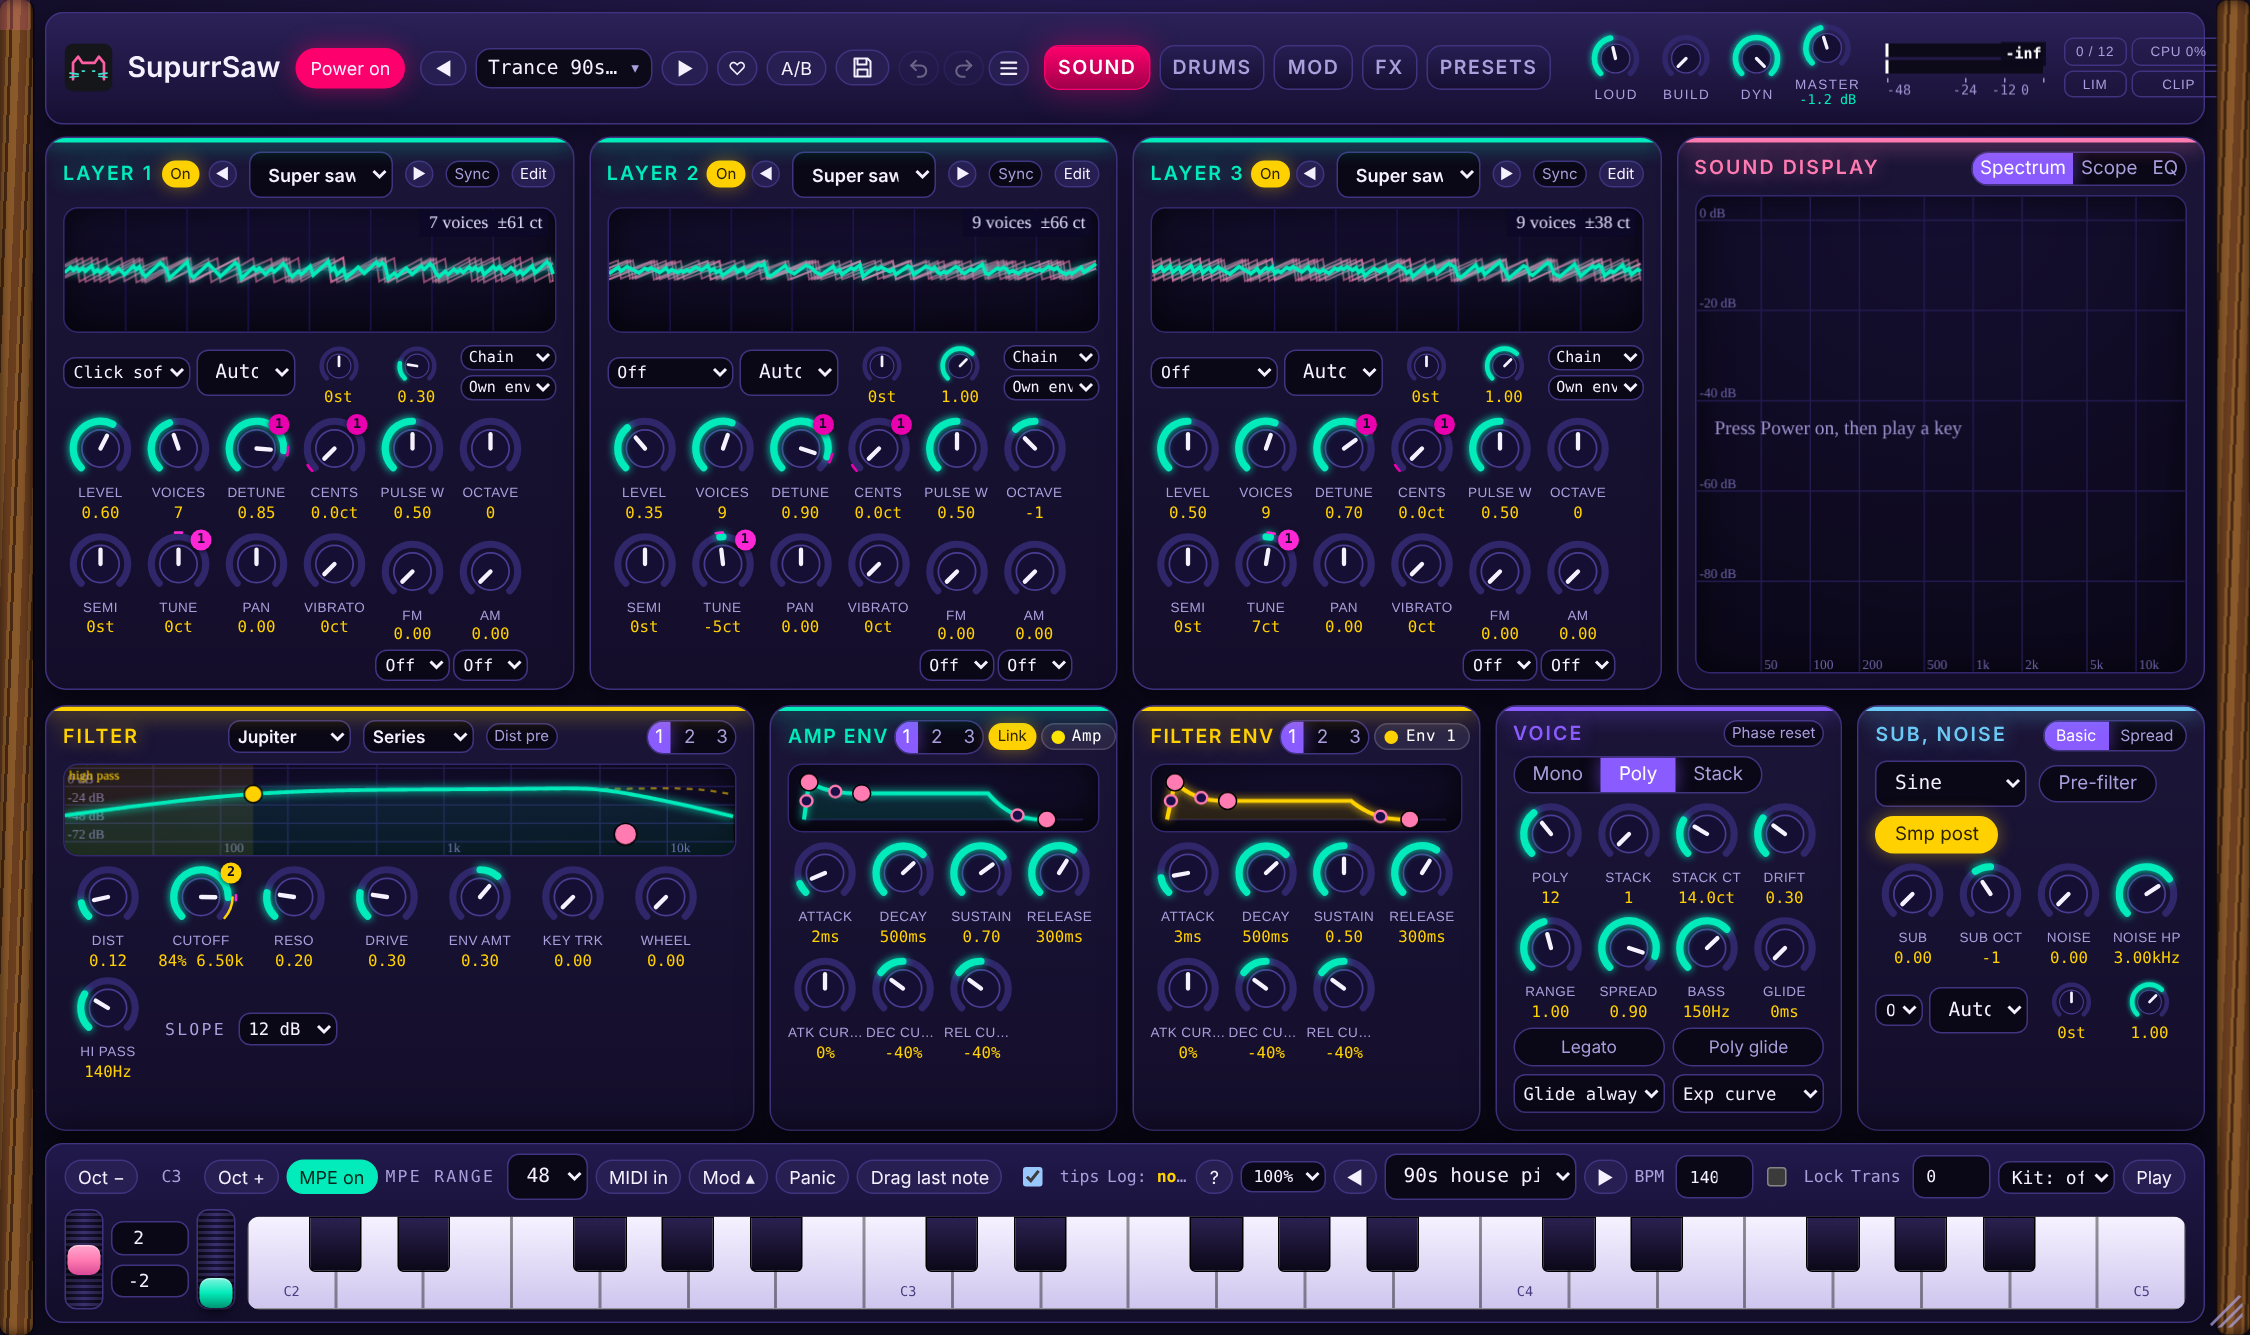
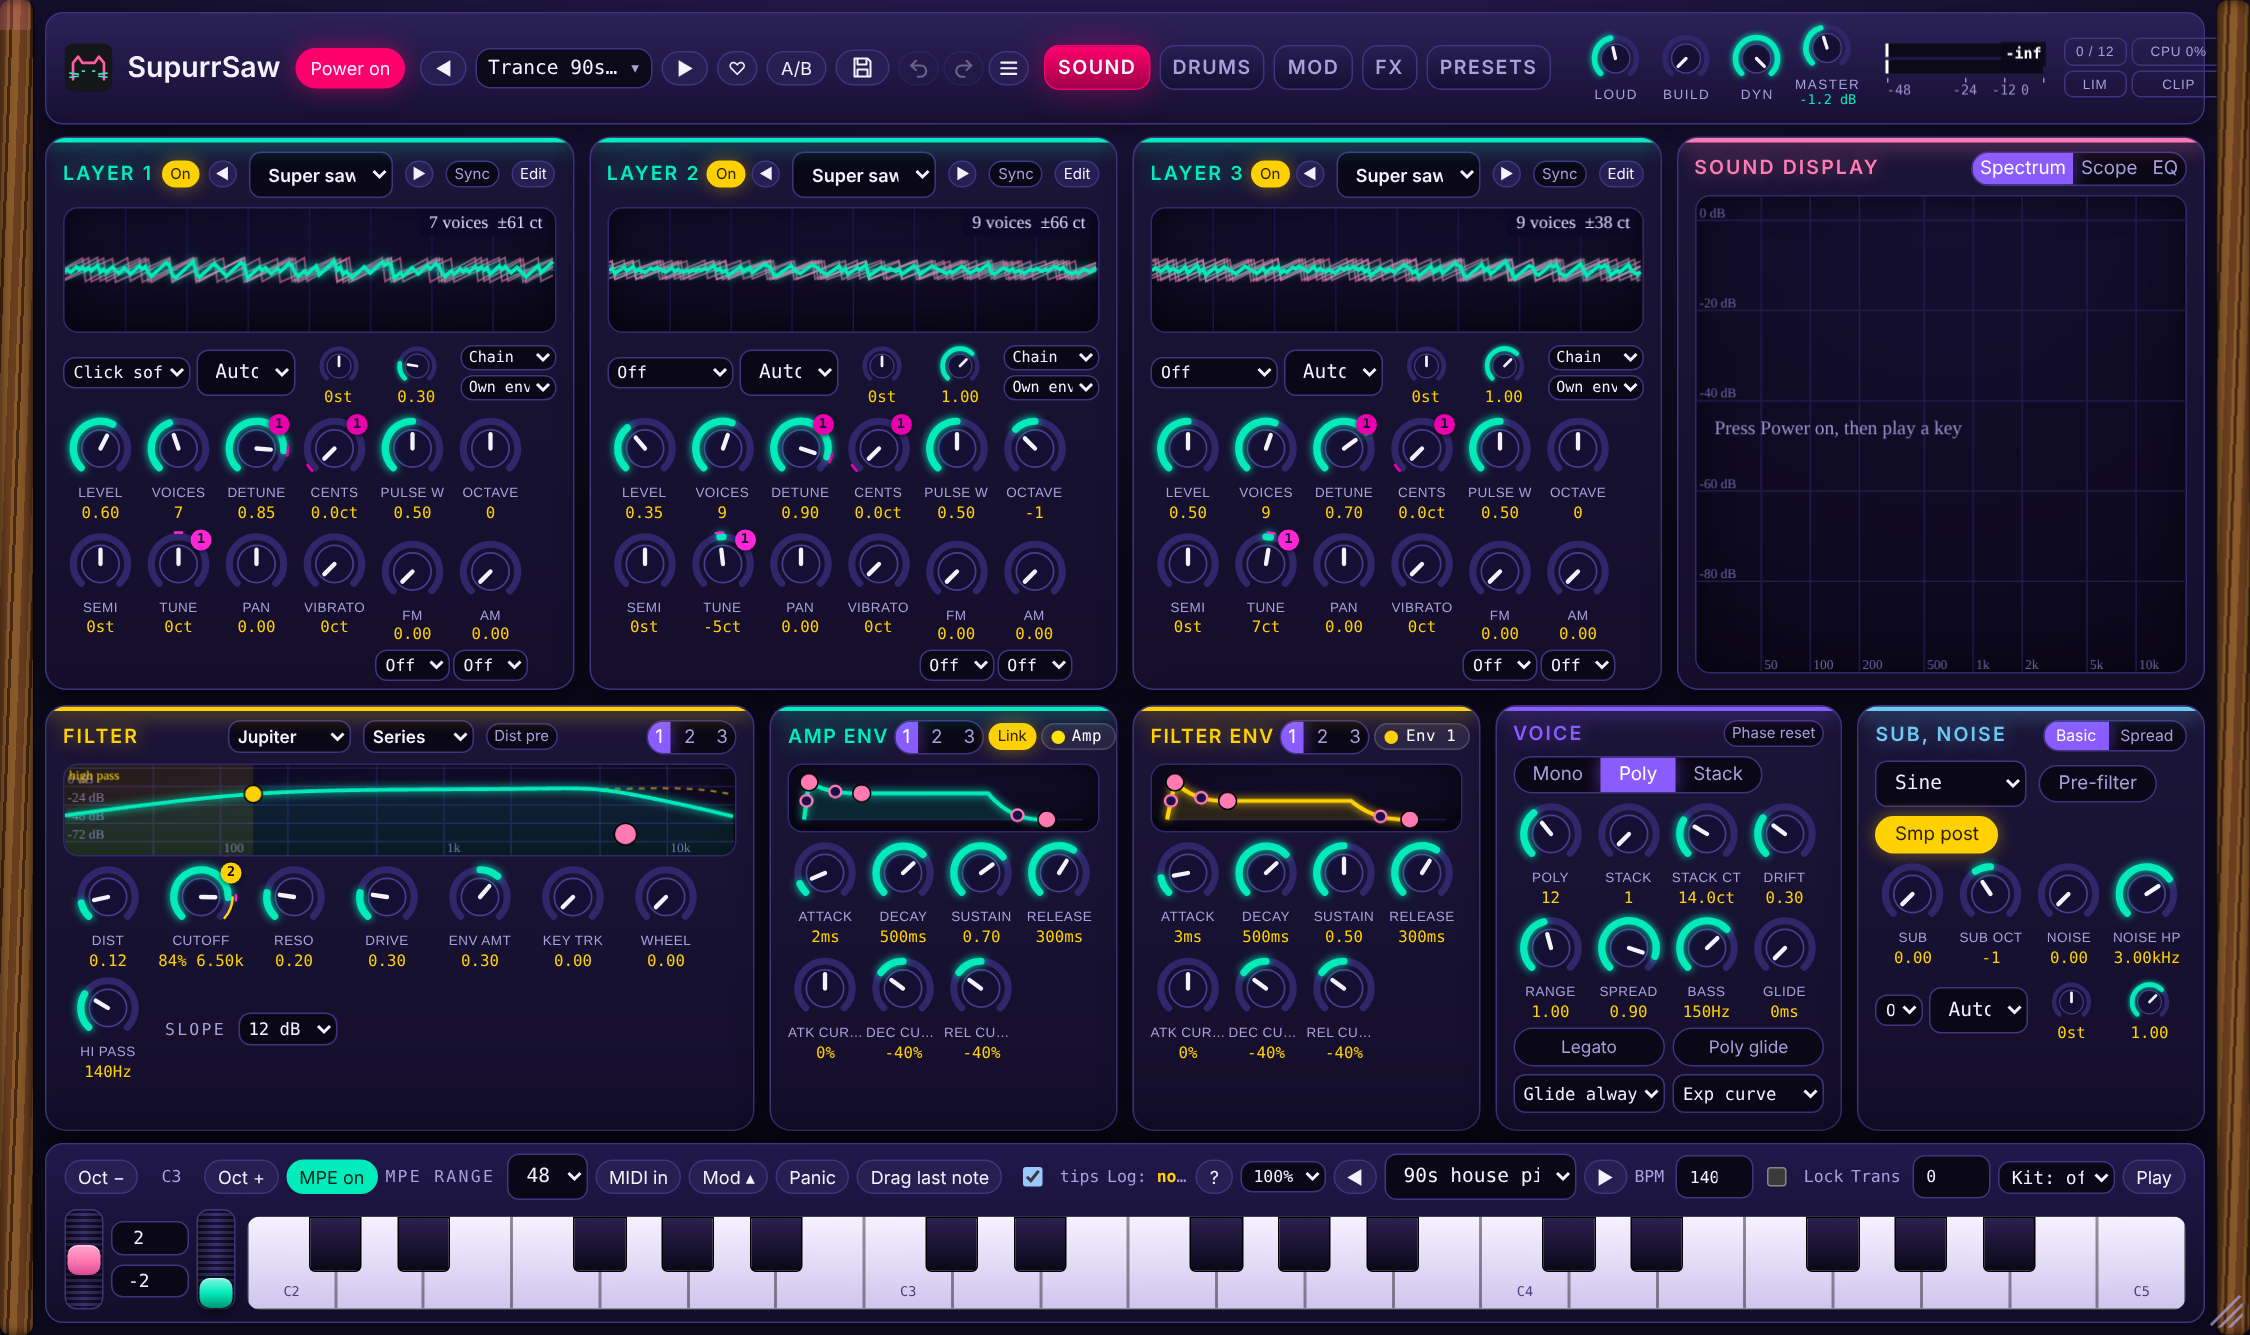
Only the layer On switch turns a layer on or off: wave Off no longer greys it, the layer sample follows the switch, a layer with no wave still plays its sample
Claude-Session: https://claude.ai/code/session_015F85RWM9RCbLtwwXZANyrz

Changed region(s): [[0.0311, 0.1843, 0.7467, 0.215]]

diff --git a/ui/supurrsaw-playground.html b/ui/supurrsaw-playground.html
@@ -1139,7 +1139,7 @@ class SupurrEngine {
       for (let ly = 0; ly < kLayers; ly++) {
         const lp = p.layers[ly], as_ = lp.ampSel | 0, le = link ? 1 : ((as_ === 0 ? ly : as_ - 1) === 0 ? ampE : ((as_ === 0 ? ly : as_ - 1) === 1 ? aE2 : aE3)), dlt = lp.dest | 0;
         if (ctl) { const pg = (Math.min(1, Math.max(-1, lp.pan + p.lfoPan * lfo + md[6])) + 1) * kPi * 0.25; v.pcC[ly] = Math.cos(pg) * 1.414; v.psC[ly] = Math.sin(pg) * 1.414; }
-        if (lp.smp !== "Off") { const d = this.smp[lp.smp]; if (d) { if (ctl) v.sq[ly] = Math.pow(2, (lp.smpPitch + (lp.smpKey === 1 || (lp.smpKey !== 2 && SMP_KEYED[lp.smp]) ? v.note - 60 + v.gl : 0)) / 12); const pos = v.sp[ly], i0 = pos | 0;
+        if (lp.on !== false && lp.smp !== "Off") { const d = this.smp[lp.smp]; if (d) { if (ctl) v.sq[ly] = Math.pow(2, (lp.smpPitch + (lp.smpKey === 1 || (lp.smpKey !== 2 && SMP_KEYED[lp.smp]) ? v.note - 60 + v.gl : 0)) / 12); const pos = v.sp[ly], i0 = pos | 0;
           if (i0 < d.length - 1) { const f = pos - i0, sm = (d[i0] * (1 - f) + d[i0 + 1] * f) * lp.smpVol * le; v.sp[ly] = pos + v.sq[ly]; if (dlt !== 0 && !post) { bL[dlt] += sm * v.pcC[ly]; bR[dlt] += sm * v.psC[ly]; } else { smL += sm * v.pcC[ly]; smR += sm * v.psC[ly]; } } } }
         if (lp.on === false || lp.wave === "Off" || (lp.level <= 0 && !used[ly])) { v.lyOut[ly] = 0; continue; }
         let f; if (ctl) { let semis = (v.note - 69) + v.gl + lp.octave * 12 + (lp.semi | 0) + lp.tune * 0.01 + pitchEnv + p.lfoPitch * lfo * 0.3 + lp.lfoPitchCents * 0.01 * lfo + v.stackCents * 0.01 + this.bendSt(v) + p.wheelVib * p.modWheel * 0.01 * lfo + md[0] * 12;
@@ -1597,10 +1597,10 @@ function waveAt(L,base,t,pw){
 }
 function drawOsc(o,time){
   const {g,w,h,hidden}=hidpi(o.cv);if(hidden)return;const L=P.layers[o.i];g.clearRect(0,0,w,h);
-  const on=L.wave!=="Off";o.card.style.opacity=(on&&L.on!==false)?1:0.62;
+  const on=L.wave!=="Off";o.card.style.opacity=L.on!==false?1:0.62;
   g.strokeStyle="#2a2060";g.lineWidth=1;g.beginPath();g.moveTo(0,h/2);g.lineTo(w,h/2);g.stroke();
   for(let i=1;i<8;i++){g.beginPath();g.moveTo(i*w/8,0);g.lineTo(i*w/8,h);g.strokeStyle="#1d1650";g.stroke();}
-  if(!on){g.fillStyle="#a99fdc";g.font="12px IBM Plex Mono";g.fillText("off",8,h/2+4);return;}
+  if(!on){g.fillStyle="#a99fdc";g.font="12px IBM Plex Mono";g.fillText(L.smp&&L.smp!=="Off"?"no wave, sample only":"no wave",8,h/2+4);return;}
   const live=held.size>0||keyNote.size>0||!!demoT,lvl=clamp((meter.l+meter.r)*1.6,0,1);
   const amp=(h/2-7)*(0.34+0.66*clamp(L.level,0,1))*(live?(0.78+0.22*lvl):0.6);
   const stack=L.wave==="SuperSaw"||L.wave==="SuperSquare"||L.wave==="Custom";
@@ -1643,13 +1643,7 @@ function waveSelect(k,tip){
 function wselRefill(){WSELS.forEach(f=>f());}
 function layerCard(i){
   const c=card("Layer "+(i+1),"","c3 a-mint"),p="L"+i+"_";
-  {/* the On switch is the one thing that says if the layer sounds: lit means it plays, dim means it is off (greyed, but its wave stays visible). With no wave chosen the layer cannot sound, so the switch shows off; pressing it then loads the default wave and turns the layer on. */
-    const lt=el("button","tog","On");lt.dataset.tip="Layer switch. Off mutes this layer but keeps its wave and every setting, so you can compare with and without it. If no wave is chosen yet, switching on loads the default wave (Super saw).";lt.setAttribute("aria-pressed","false");
-    const eff=()=>!!P&&P.layers[i].on!==false&&P.layers[i].wave!=="Off";
-    lt.onclick=()=>{if(P.layers[i].wave==="Off"){setParam(p+"wave","SuperSaw",true);if(CTRL[p+"wave"])CTRL[p+"wave"].refresh();setParam(p+"on",true,true);}else setParam(p+"on",!(P.layers[i].on!==false),true);CTRL[p+"on"].refresh();};
-    addCtrl(p+"on",{refresh(){const e=eff();lt.classList.toggle("on",e);lt.setAttribute("aria-pressed",e);},mark(){}});
-    c.querySelector("h2").appendChild(lt);
-    const dim=()=>{c.style.opacity=eff()?1:0.62;const e=eff();if(lt.classList.contains("on")!==e)CTRL[p+"on"].refresh();};onChange(k=>{if(k===p+"on"||k===p+"wave"||k==="all")dim();});reg(dim);}
+  {const lt=toggle(p+"on","On","Layer switch. Off mutes this layer, wave and sample, but keeps every setting, so you can compare with and without it. It does not depend on the wave: a layer with no wave can still play its sample.");c.querySelector("h2").appendChild(lt);const dim=()=>{c.style.opacity=(P&&P.layers[i].on===false)?0.62:1;};onChange(k=>{if(k===p+"on"||k==="all")dim();});reg(dim);}
   const top=el("div","row");const wsel=waveSelect(p+"wave","Oscillator type. Off mutes the layer. Custom plays the shape from the Presets and waves page. Your saved waves are listed under My waves.");wsel.style.width="96px";wsel.style.fontSize="12px";
   const stepW=d=>{const o=wsel.options,n=o.length;if(!n)return;wsel.selectedIndex=(wsel.selectedIndex+d+n)%n;wsel.dispatchEvent(new Event("change"));};
   const arr=(t,d,tp)=>{const b=el("button","btn sm",t);b.style.cssText="padding:2px 4px;min-width:0;font-size:10px;flex:0 0 auto";b.dataset.tip=tp;b.onclick=()=>stepW(d);return b;};

diff --git a/tools/presets_test.cpp b/tools/presets_test.cpp
@@ -360,6 +360,9 @@ int main(int argc, char** argv) {
     auto bank = sampleBank(48000.0); for (int i = 1; i < kSmpCount; ++i) { const auto& d = bank->d[i]; CHECK(d.size() > 100); double pk = 0; for (float v : d) { CHECK(std::isfinite(v)); pk = std::max(pk, (double)std::fabs(v)); } CHECK(std::fabs(pk - 0.9) < 0.01); }
     CHECK(bank->d[0].empty()); CHECK(sampleBank(48000.0) == bank);
     for (int i = 1; i < kSmpCount; ++i) { Params q; q.dmMix = 0.f; q.layer[0].wave = Wave::Off; q.layer[1].wave = Wave::Off; q.layer[2].wave = Wave::Off; q.layer[0].smp = i; q.cutoff = 18000.f; q.limiter = false; Engine e; e.prepare(48000); e.p = q; e.noteOn(60, 0.9f); float L[2400], R[2400]; e.render(L, R, 2400); double s = 0; for (int k = 0; k < 2400; ++k) { CHECK(std::isfinite(L[k])); s += (double)L[k] * L[k]; } CHECK(s > 1e-4); }
+    { // the layer switch mutes the layer sample too, and a layer with no wave still plays its sample when on
+      for (int on = 0; on < 2; ++on) { Params q; q.dmMix = 0.f; for (auto& ly : q.layer) ly.wave = Wave::Off; q.layer[0].smp = smpFromId("click_soft"); q.layer[0].on = on != 0; q.cutoff = 18000.f; q.limiter = false; Engine e; e.prepare(48000); e.p = q; e.noteOn(60, 0.9f); float L[2400], R[2400]; e.render(L, R, 2400); double s = 0; for (int k = 0; k < 2400; ++k) s += (double)L[k] * L[k]; if (on) CHECK(s > 1e-4); else CHECK(s < 1e-9); }
+      std::printf("layer switch: wave Off plays its sample when on, silent when off\n"); }
     { Params q; q.dmMix = 0.f; for (auto& ly : q.layer) ly.wave = Wave::Off; q.nzSmp = smpFromId("snare_crack"); q.cutoff = 18000.f; Engine e; e.prepare(48000); e.p = q; e.noteOn(60, 0.9f); float L[2400], R[2400]; e.render(L, R, 2400); double s = 0; for (int k = 0; k < 2400; ++k) s += (double)L[k] * L[k]; CHECK(s > 1e-4); }
     auto zc = [&](Params q, int note) { for (auto& ly : q.layer) ly.wave = Wave::Off; q.dmMix = 0.f; q.cutoff = 18000.f; q.layer[0].smp = smpFromId("pluck_soft"); Engine e; e.prepare(48000); e.p = q; e.noteOn(note, 0.9f); float L[4800], R[4800]; e.render(L, R, 4800); int z = 0; for (int k = 1; k < 4800; ++k) if ((L[k - 1] < 0) != (L[k] < 0)) ++z; return z; };
     Params zp; int zlo = zc(zp, 48), zhi = zc(zp, 72); CHECK(zhi > zlo * 2);   // keyed: two octaves up is about four times the zero crossings

diff --git a/core/supurrsaw_core.h b/core/supurrsaw_core.h
@@ -1240,7 +1240,7 @@ class Engine {
       for (int ly = 0; ly < kLayers; ++ly) {
         const LayerParams& lp = p.layer[ly]; const int asel = lp.ampSel == 0 ? ly : std::max(0, std::min(2, lp.ampSel - 1)), dlt = std::max(0, std::min(4, lp.dest)); const double le = link ? 1.0 : (asel == 0 ? ampE : (asel == 1 ? aE2 : aE3));
         if (ctl) { const double pg = (std::min(1.0, std::max(-1.0, lp.pan + p.lfoPan * lfo + md[6])) + 1.0) * kPiD * 0.25; v.pcC[ly] = std::cos(pg) * 1.414; v.psC[ly] = std::sin(pg) * 1.414; }
-        if (lp.smp != 0 && bank) { const std::vector<float>& d = bank->d[lp.smp]; if (!d.empty()) {
+        if (lp.on && lp.smp != 0 && bank) { const std::vector<float>& d = bank->d[lp.smp]; if (!d.empty()) {
           if (ctl) v.sq[ly] = std::pow(2.0, (lp.smpPitch + (lp.smpKey == 1 || (lp.smpKey != 2 && smpKeyed(lp.smp)) ? v.note - 60 + v.gl : 0.0)) / 12.0);
           const double pos = v.sp[ly]; const int i0 = (int)pos;
           if (i0 < (int)d.size() - 1) { const double f = pos - i0, sm = (d[i0] * (1.0 - f) + d[i0 + 1] * f) * lp.smpVol * le; v.sp[ly] = pos + v.sq[ly]; if (dlt != 0 && !post) { v.bL[dlt] += sm * v.pcC[ly]; v.bR[dlt] += sm * v.psC[ly]; } else { smL += sm * v.pcC[ly]; smR += sm * v.psC[ly]; } } } }
